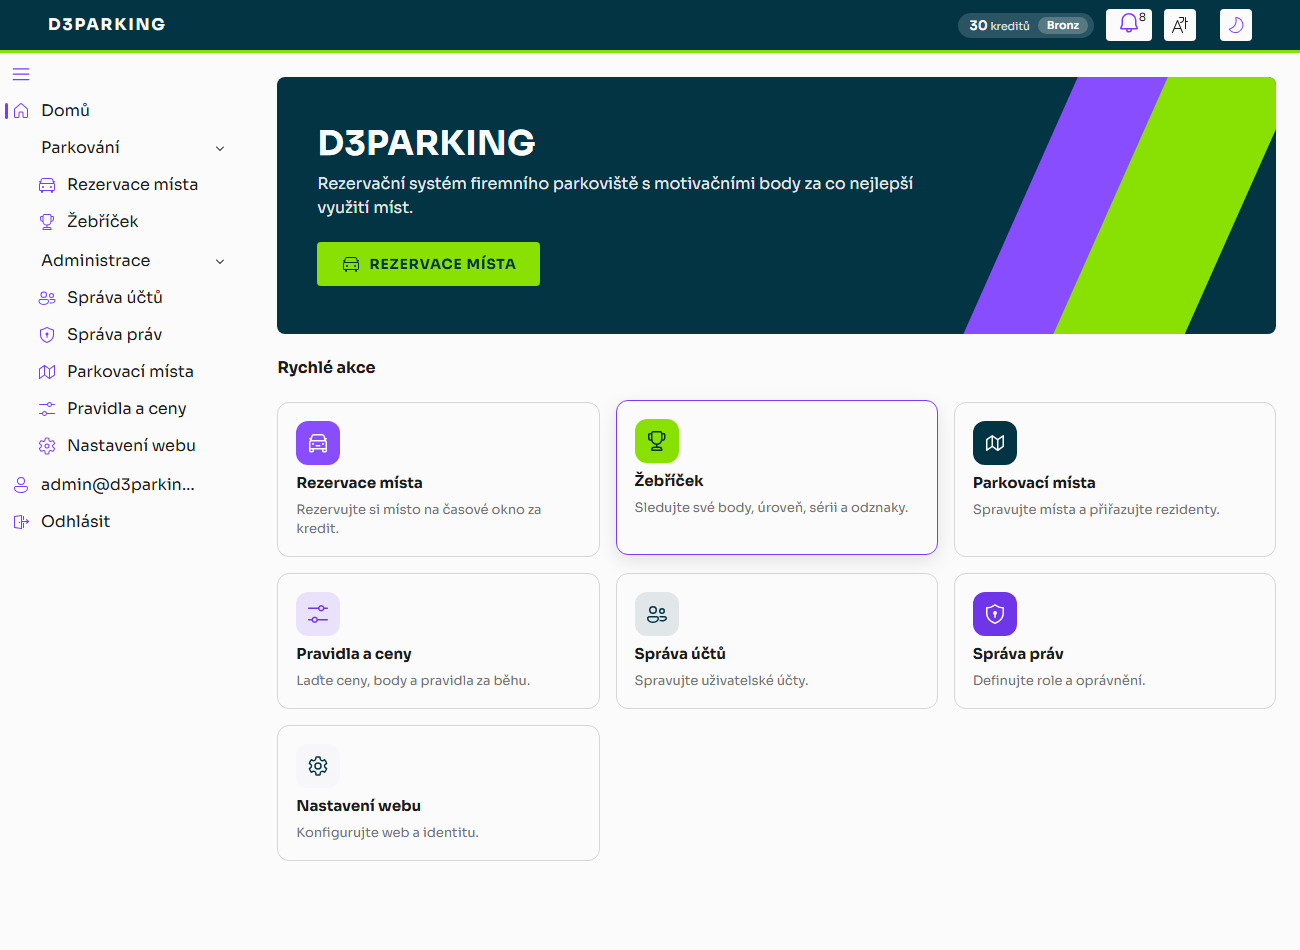
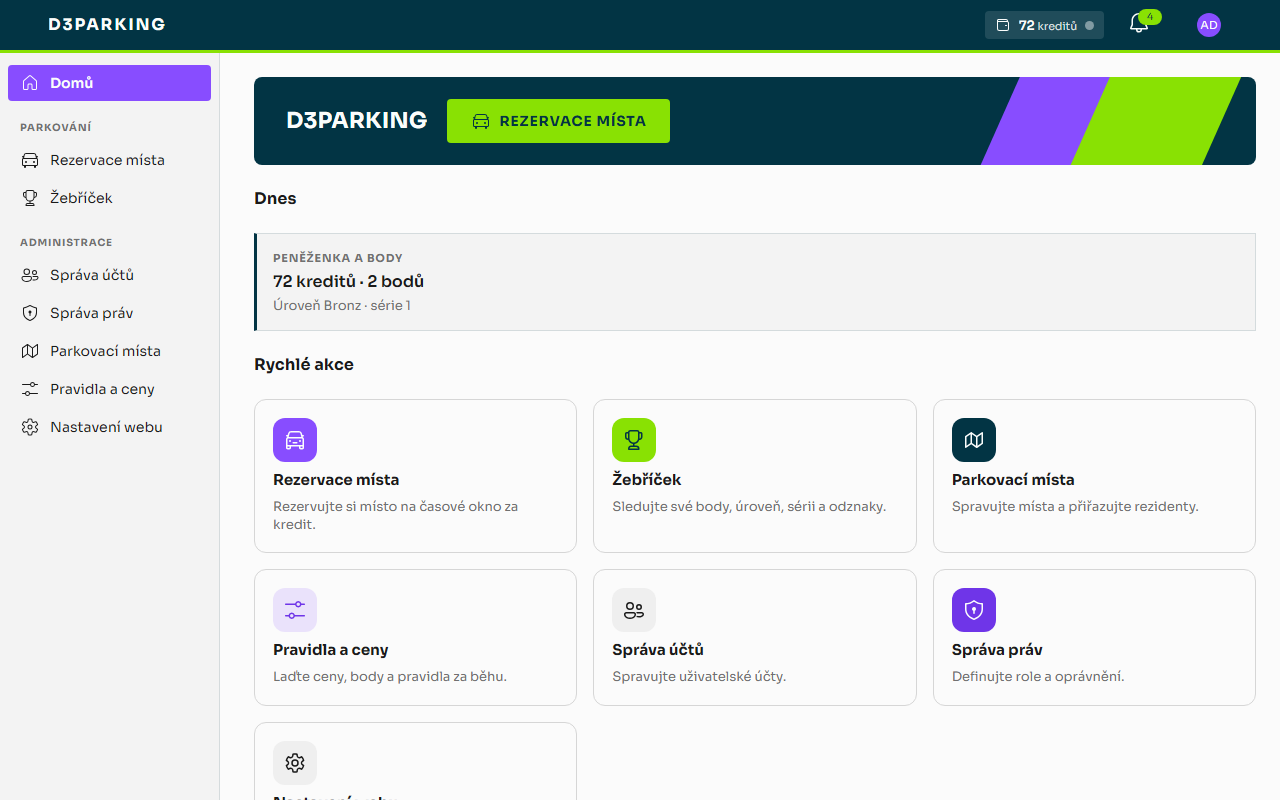
Refresh the README with a current preview gallery and feature walkthrough
The preview section now shows the app as it actually is: new PNG shots
of the dashboard, the booking page (with the apology-voucher banner and
live price quote), the leaderboard and the occupancy-mismatch trend
view, plus re-captured walkthrough GIFs for registration, everyday use
and administration. The "how it works" narrative gains a section for
the "I can't park" flow and its apology voucher, the queue chapter
documents the missed-offer demotion, and the anti-abuse list covers the
once-per-day completion rewards and the blocked-report/voucher caps.
Unreferenced stale screenshots are removed.

diff --git a/README.md b/README.md
@@ -34,6 +34,7 @@ vyhrazeného místa) a penalizují nedostavení se.
   - [Rezervace a jejich životní cyklus](#rezervace-a-jejich-životní-cyklus)
   - [Kredity a dynamická cena](#kredity-a-dynamická-cena)
   - [Fronta při plném obsazení](#fronta-při-plném-obsazení)
+  - [„Nemůžu zaparkovat" a omluvný kupón](#nemůžu-zaparkovat-a-omluvný-kupón)
   - [Body a reputace](#body-a-reputace)
   - [Série, úrovně a výhody](#série-úrovně-a-výhody)
   - [Rezidentní místa](#rezidentní-místa)
@@ -76,18 +77,34 @@ Vizuální styl vychází ze značkového manuálu: plochy v Sherpa Blue, fialov
 prvků, zelená jako výplň zvýraznění a písmo Sora. Rozhraní je v češtině i angličtině a má světlý
 i tmavý režim.
 
-**Registrace** — vytvoření účtu na split-screen obrazovce a potvrzení o aktivačním e-mailu:
+**Domů** — hero s rychlou akcí, peněženka s body a úrovní, dnešní karty a dlaždice podle oprávnění:
+
+![Domů](docs/screenshots/home.png)
+
+**Rezervace místa** — vyhledání okna s živým cenovým náhledem (špička, obsazenost, zůstatek), karty
+volných míst — a nahoře banner **omluvného kupónu** na rezervaci zdarma:
+
+![Rezervace místa](docs/screenshots/reserve.png)
+
+**Žebříček** — úroveň s prstencem postupu, skóre, série dokončení, důvěra a pořadí kolegů:
+
+![Žebříček](docs/screenshots/leaderboard.png)
+
+**Neshody obsazenosti** — trend „nedalo se zaparkovat" per místo pro správce; záměrně bez viníka:
+
+![Neshody obsazenosti](docs/screenshots/mismatches.png)
+
+**Registrace** — vytvoření účtu na split-screen obrazovce s ukazatelem síly hesla:
 
 ![Registrace](docs/screenshots/registration.gif)
 
 **Přihlášení a používání** — přihlášení, peněženka v hlavičce, rezervace místa s živým náhledem ceny
-a bodů, a žebříček s úrovní, skóre důvěry a odznaky:
+a žebříček s úrovní a skóre důvěry:
 
 ![Přihlášení a používání](docs/screenshots/login.gif)
 
-**Administrace** — správa účtů a rolí, parkovací místa, *Pravidla a ceny* rozdělená do záložek
-(ekonomika, body a úrovně, důvěra a ochrana, fronta a špička, rezidenti, lokalita), nastavení webu
-a revize podezřelých interakcí:
+**Administrace** — správa účtů, parkovací místa, *Pravidla a ceny* v záložkách (ekonomika, body
+a úrovně, důvěra a ochrana, fronta a špička, rezidenti, lokalita) a neshody obsazenosti:
 
 ![Administrace](docs/screenshots/administration.gif)
 
@@ -157,6 +174,25 @@ Fronta je vázaná na **konkrétní časové okno** a obsluhuje se podle priorit
 - Vstup do fronty je zdarma a je možný jen při skutečně plném obsazení.
 
 Nabídky se vyhodnocují i průběžně v údržbové smyčce (expirace prošlých nabídek a doplnění nových).
+Propadlá nabídka pošle čekatele na konec fronty, takže další uvolněné místo dostane další v pořadí.
+
+### „Nemůžu zaparkovat" a omluvný kupón
+
+Když řidič dorazí a jeho rezervované místo je fyzicky zablokované cizím autem, nemusí to řešit
+nedostavením se: tlačítko **„Nemůžu zaparkovat"** (dostupné v okně check-inu) nabídne dvě cesty —
+**„Najít mi jiné místo"** zarezervuje první volné místo pro stejné okno s převodem původní platby
+(peněženka net nula), **„Jen zaznamenat stav"** rezervaci zruší s plnou vratkou bez ohledu na cutoff.
+Obojí **bez rizika no-show penalizace**.
+
+- Celý tok je záměrně **pomocný, ne žalující**: nikde se nejmenuje ani neobviňuje kolega. Eviduje se
+  jen **stav místa** (neshoda obsazenosti) a správce vidí na `/admin/parking/mismatches` trend per
+  místo — opakované problémy konkrétního místa, ne seznam viníků.
+- **Omluvný kupón:** za potíž náleží kupón na **jednu rezervaci zdarma včetně špičkové ceny**.
+  Uplatní se zaškrtnutím při rezervaci, platí 30 dní, drží se max. 1 nevyčerpaný na uživatele
+  a **včasné zrušení/uvolnění ho vrací**. Fronta je záměrně bez kupónů (odchod od vzácného
+  claimnutého místa nesmí být bezbolestný).
+- **Pojistky:** záznam jde pořídit jen v době okna rezervace a nejvýše 2× na uživatele a den —
+  z toku se tak nedá udělat úniková cesta z nechtěných rezervací po refund cutoffu.
 
 ### Body a reputace
 
@@ -260,6 +296,10 @@ vzácná místa plynou k těm, kdo je nejvíc potřebují. Uživatelé zadají *
 8. **Detekce kruhů (anti-collusion)** — páry, jejichž sdílení se příliš soustředí na sebe navzájem
    (≥ N interakcí a ≥ práh % koncentrace u obou), se označí **flagem k revizi** a admin dostane
    notifikaci. Tvrdé akce řeší admin ručně na stránce *Podezřelé interakce* (false-positive bezpečné).
+9. **Odměny za dokončení max. 1× za den**, check-in jen kolem okna rezervace a dokončení až po jeho
+   začátku — smyčka rezervuj→check-in→dokonči nefarmí ani body, ani kredity.
+10. **„Nemůžu zaparkovat" jen v okně rezervace a max. 2× denně**; omluvný kupón se drží nejvýše
+    jeden nevyčerpaný, expiruje za 30 dní a fronta je bez kupónů — falešná hlášení nemají co těžit.
 
 ### Údržba na pozadí
 
